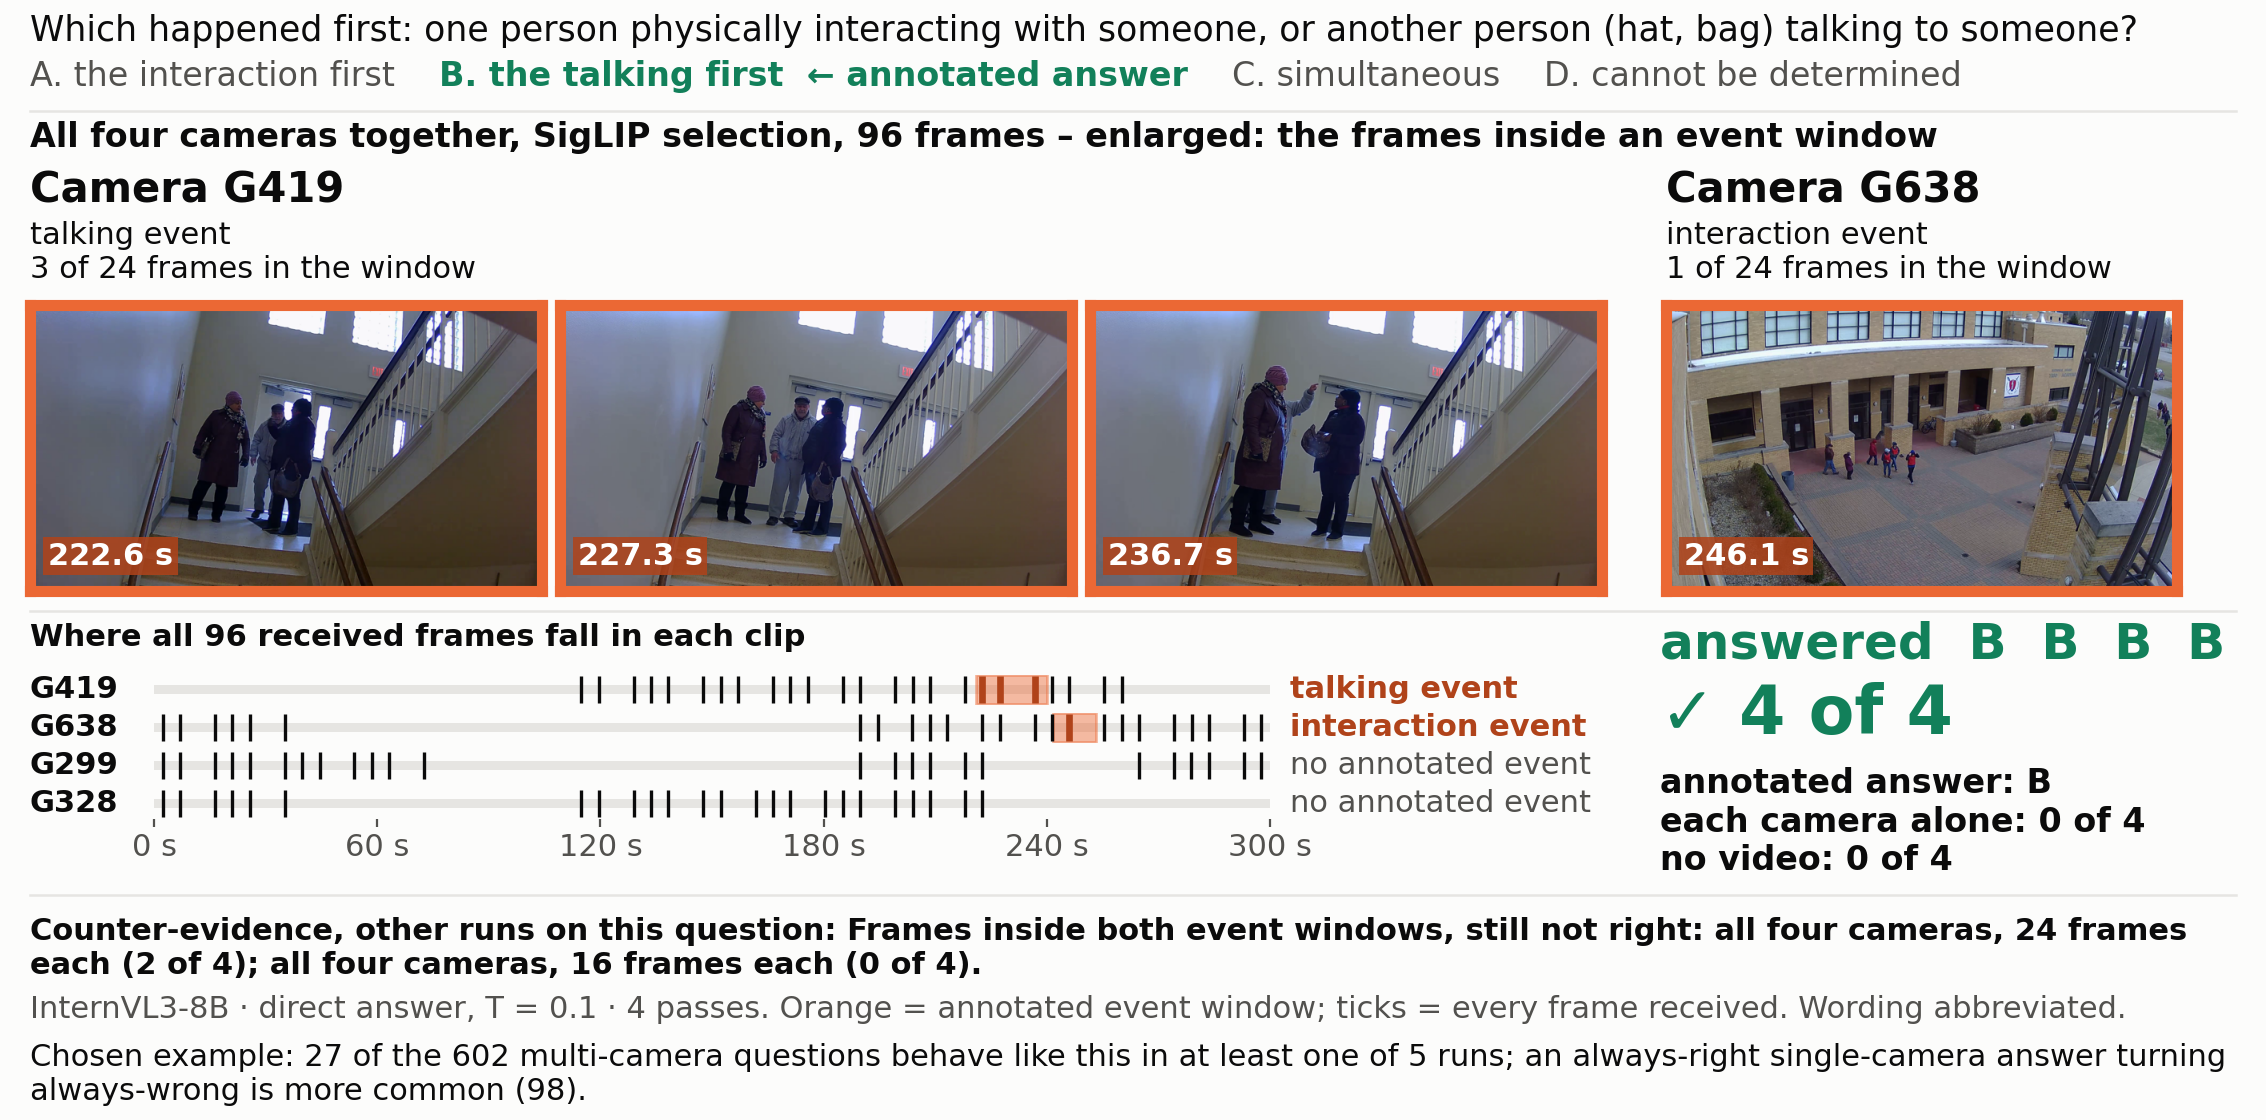
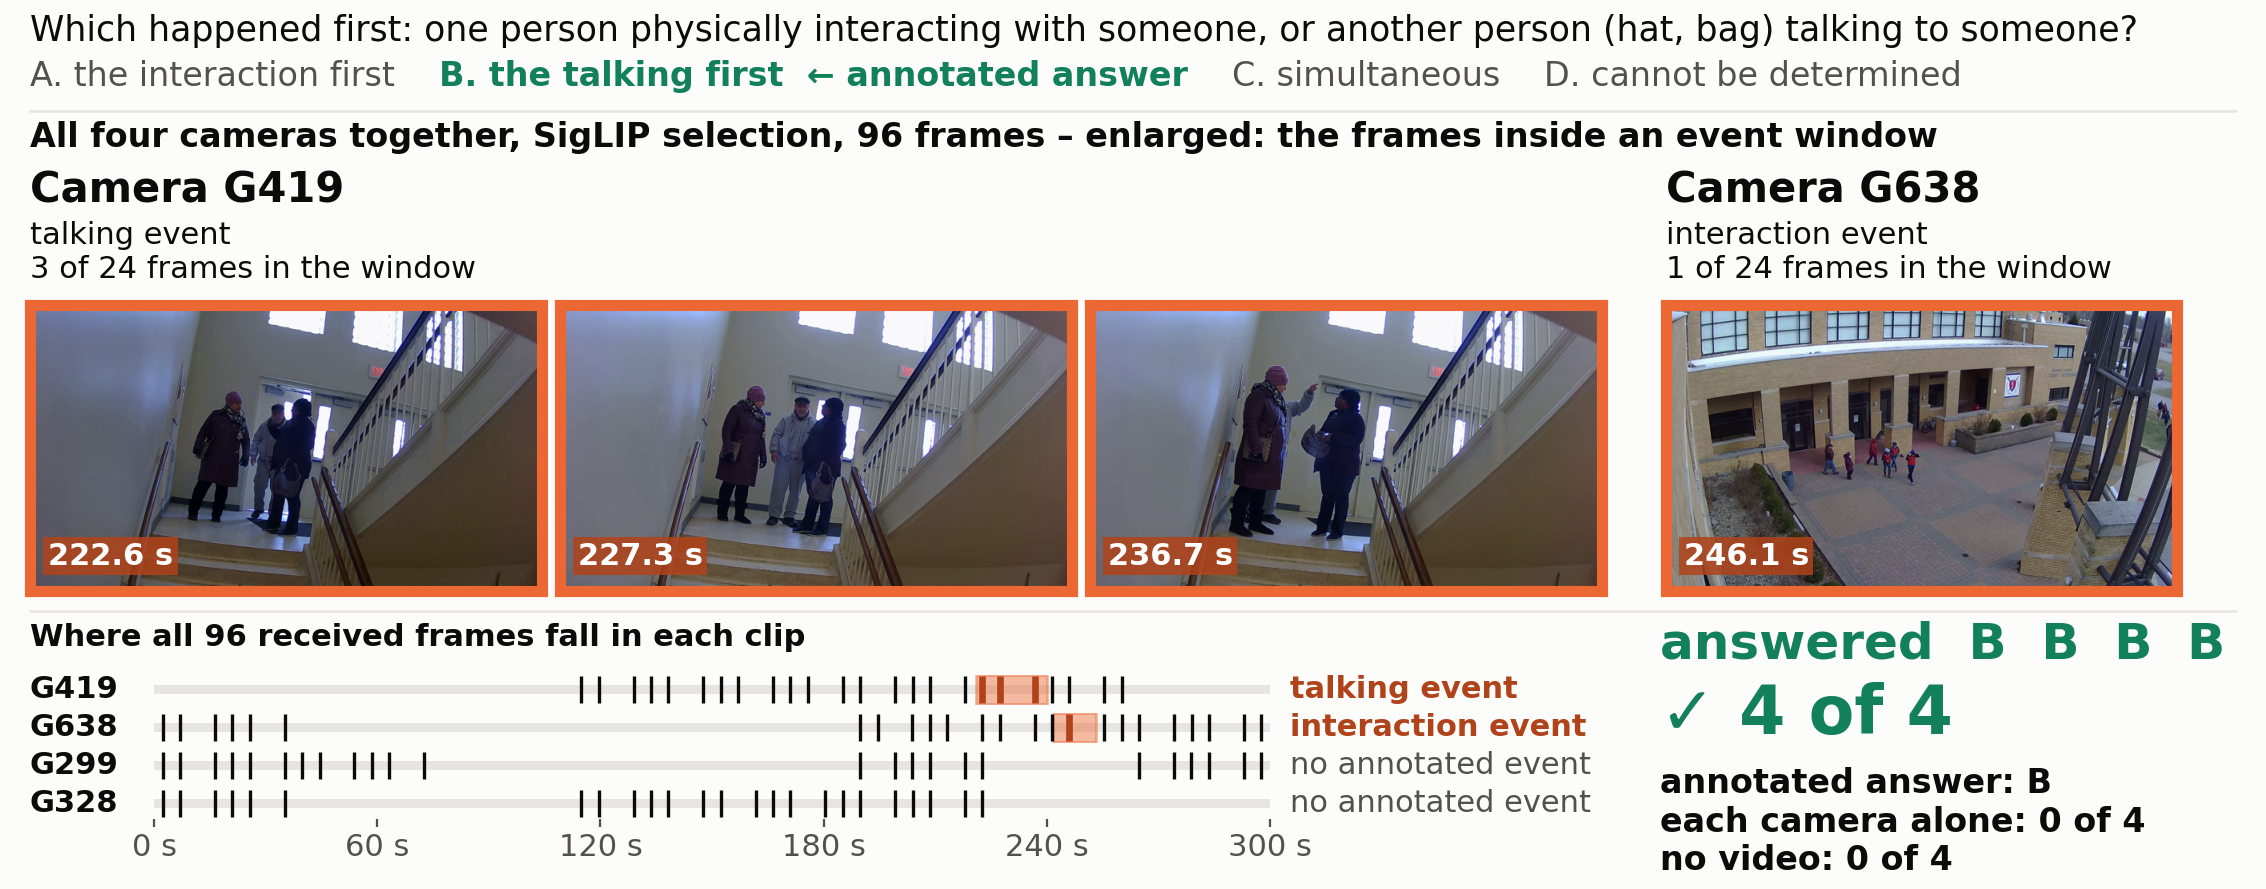
demo: crop the case figures above the counter-evidence block
The page already shows the counter-evidence in the step-3 strip and the
disclosure in the rail, so the figures on stage stop at the last rule. The
full figures stay in docs/figs/demo_2026-09-22/ for the deck.

diff --git a/demo/README.md b/demo/README.md
@@ -92,8 +92,10 @@ for how 954 was picked and what the rows can and cannot support.
 - `figs_case/` - the case study: `case_q954.json` (every value the case mode shows),
   the two deck figures `case1_q954.png` and `case2_q954.png`, the two wall clips
   `wall_case1_q954.mp4` and `wall_case2_q954.mp4` with their `_mid.png` stills, and
-  `how_it_works.png`, the pipeline figure from the deck. The same record and case
-  figures live in `docs/figs/demo_2026-09-22/` for the deck.
+  `how_it_works.png`, the pipeline figure from the deck. The same record and the
+  full figures live in `docs/figs/demo_2026-09-22/` for the deck; the copies here
+  are cropped above the counter-evidence block (the last horizontal rule), since
+  the page shows the counter-evidence and the disclosure in the strip and the rail.
 - `rows/` - the eight result files, one JSON object per answered question, their
   eight summary files, and the five-question subset that was run.
 - `scripts/` - the five scripts that produced the assets in this folder.
